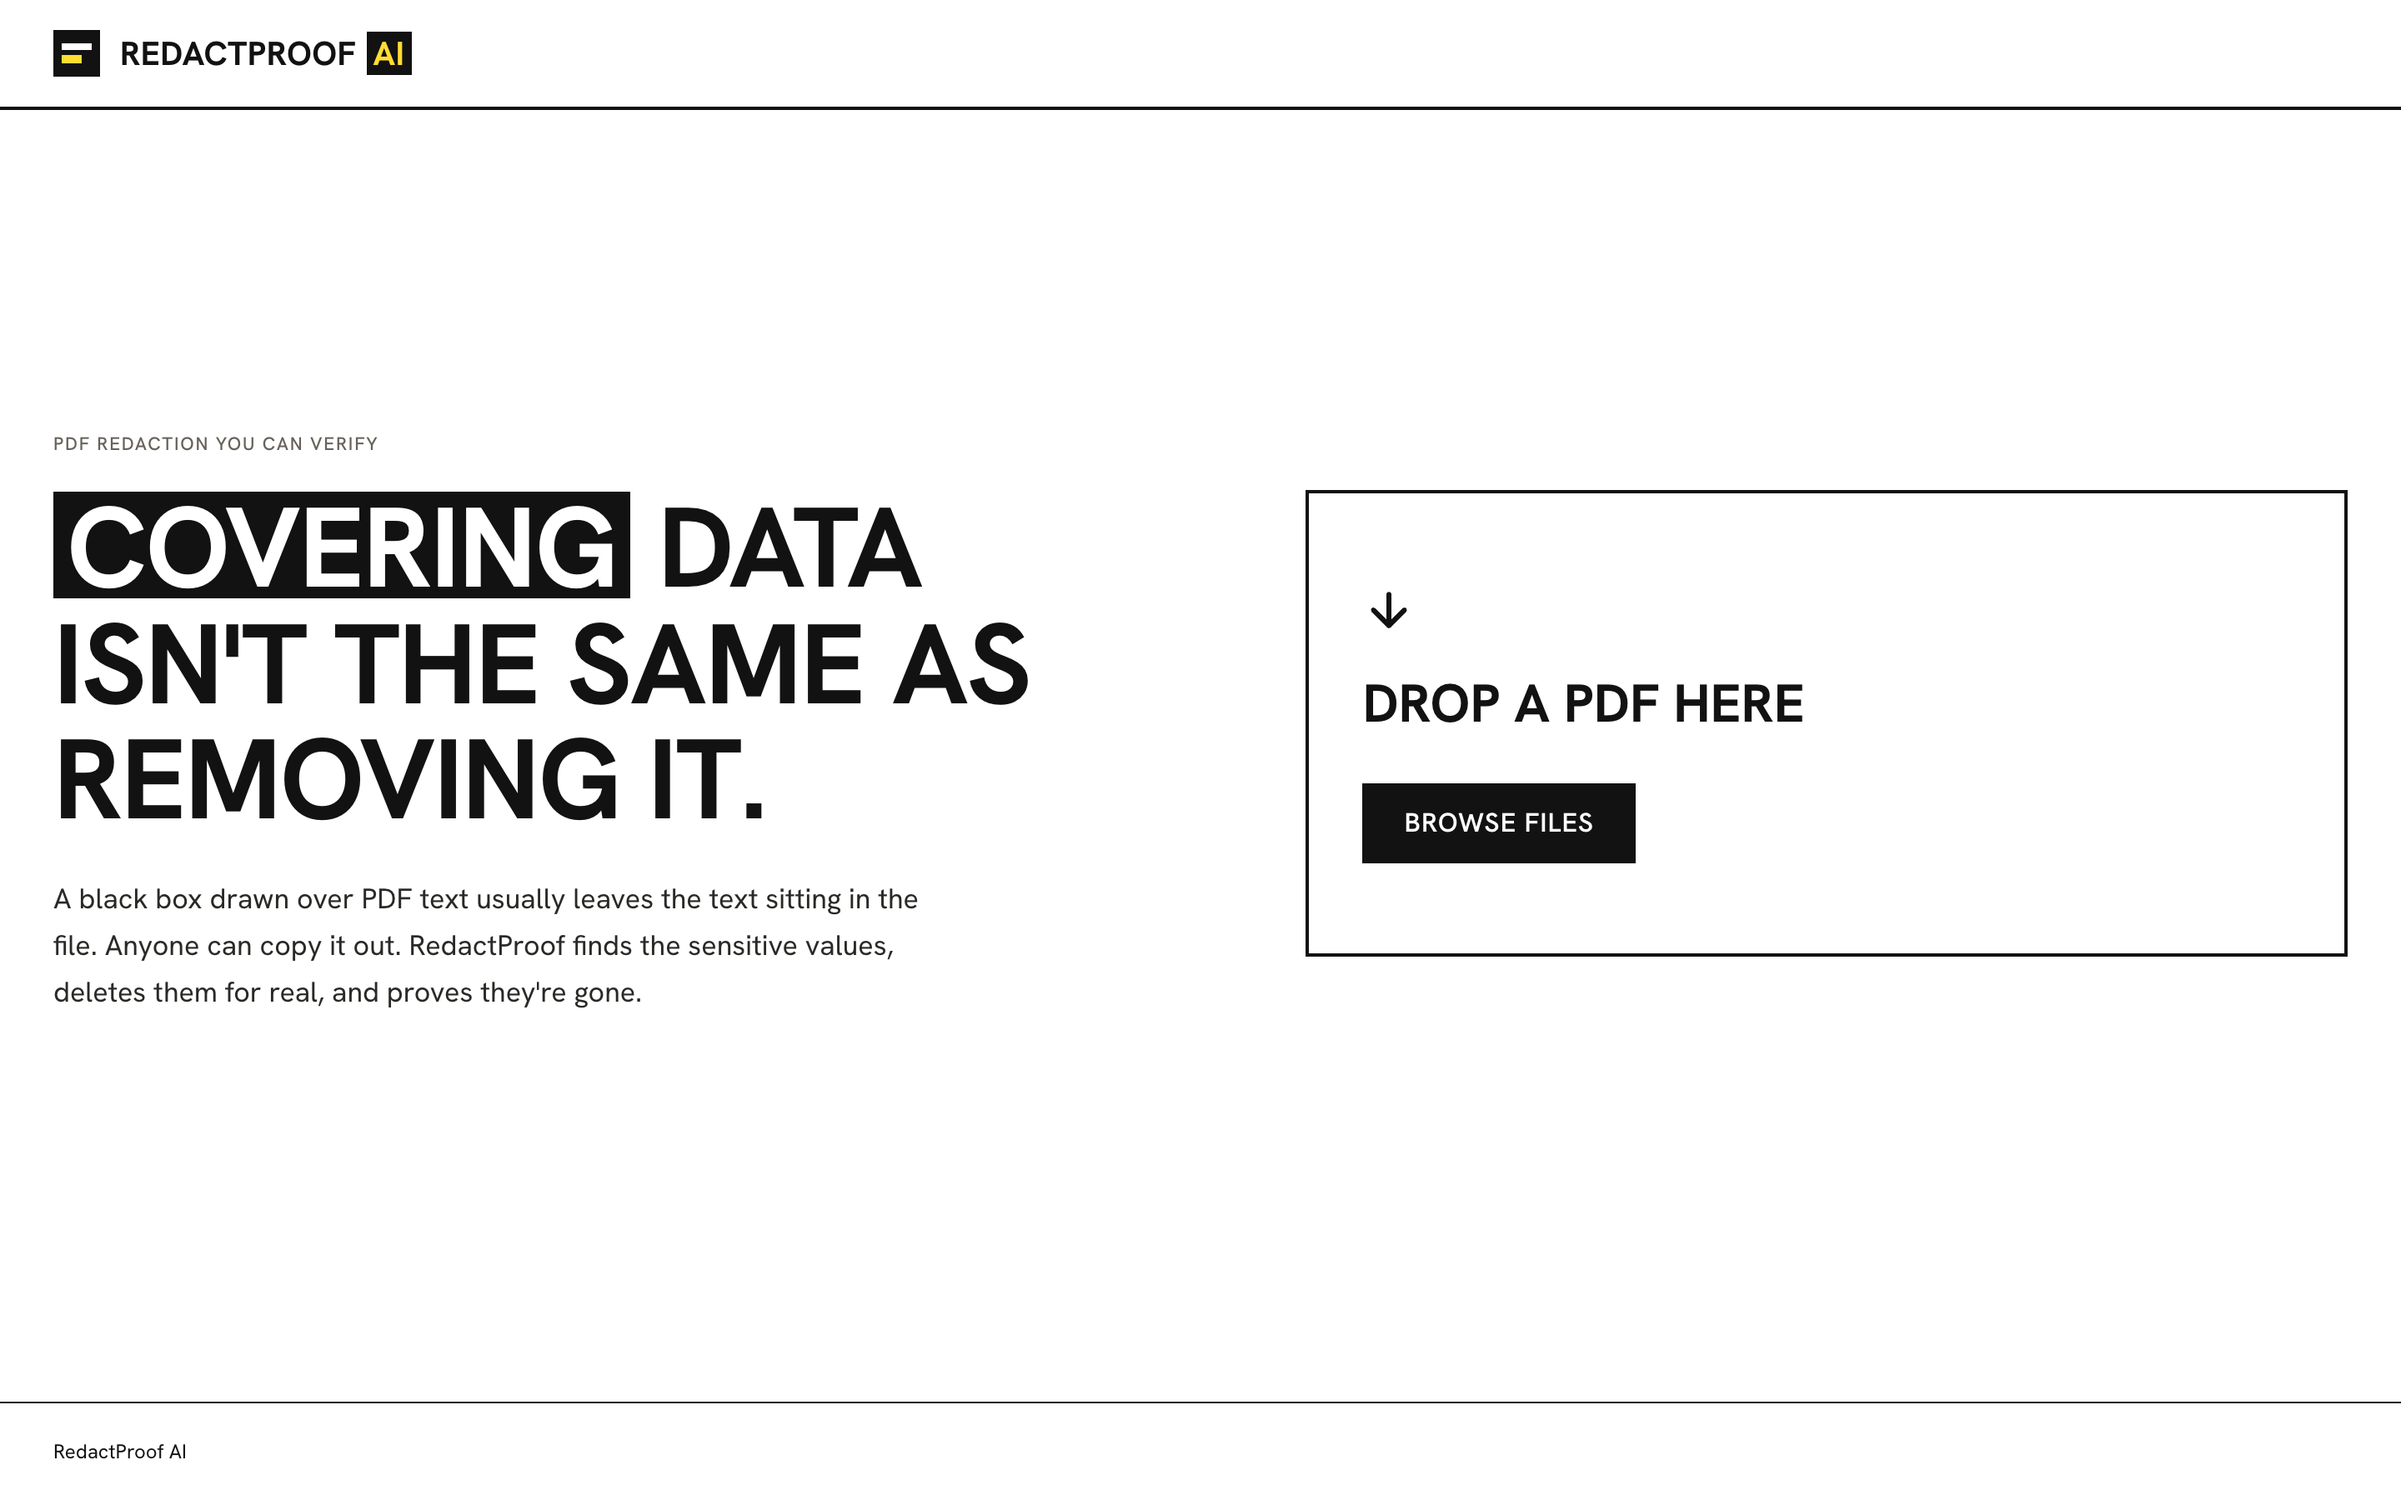
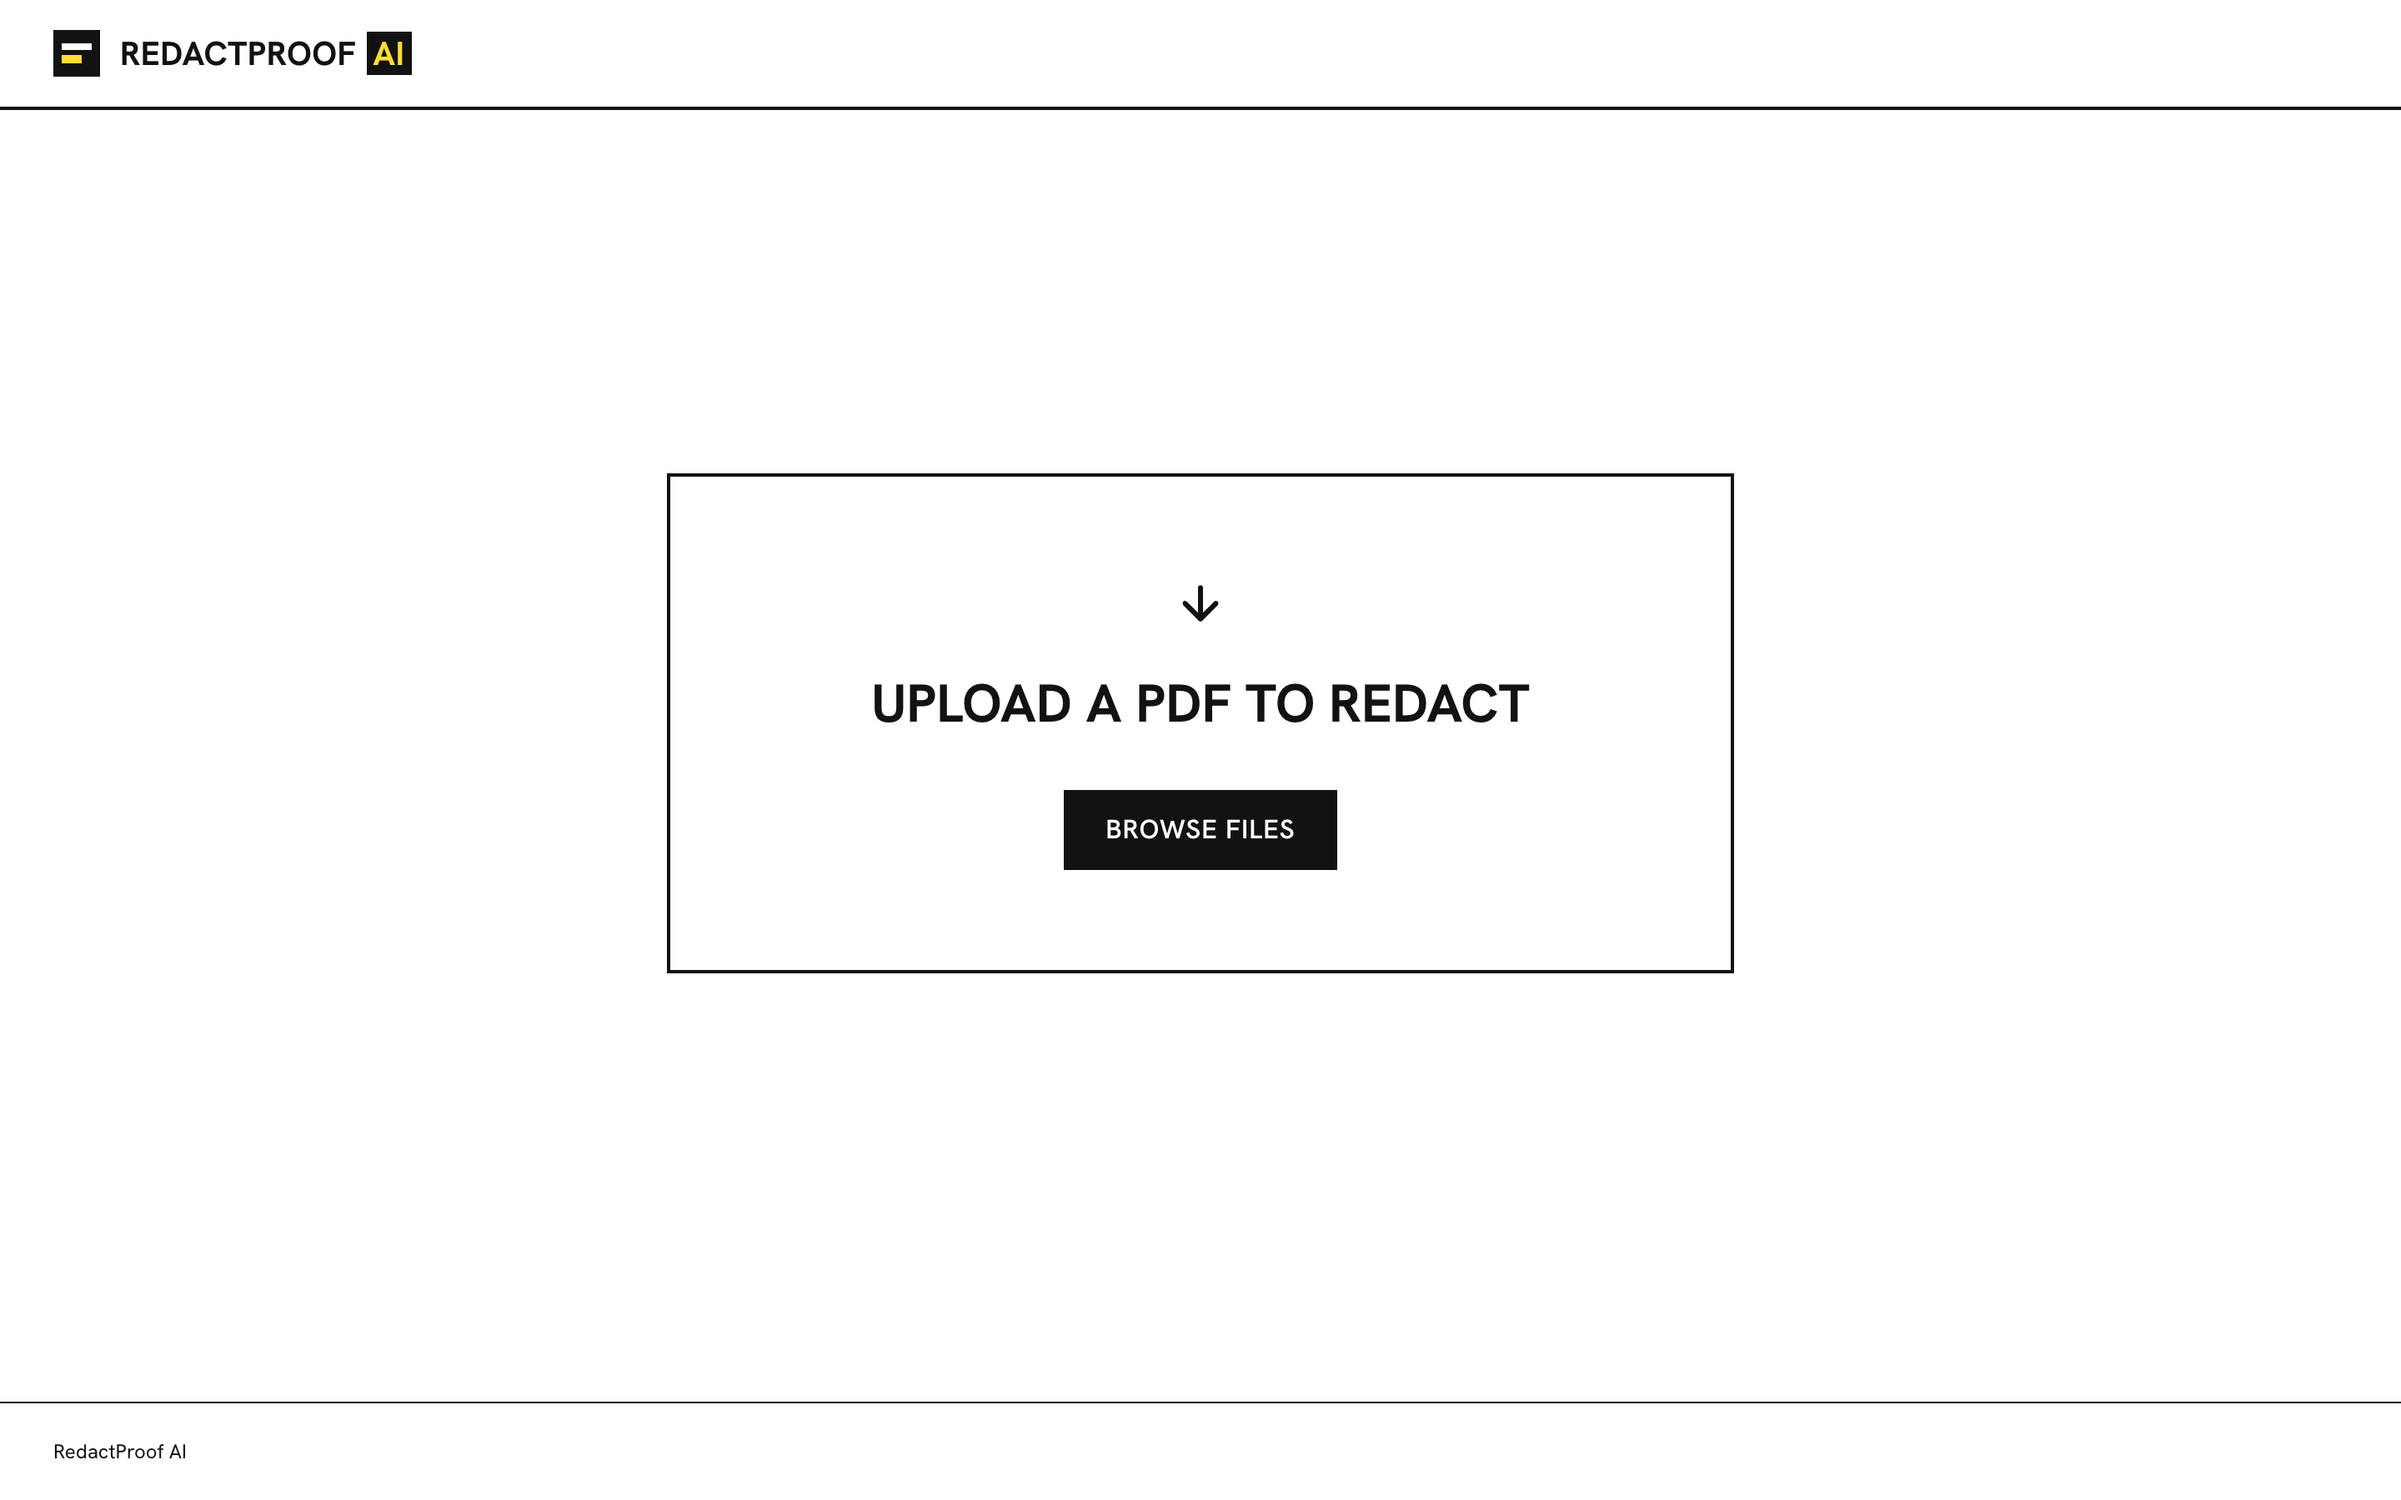
Simplify the homepage to a single centered upload box
Remove the headline, intro text and label on the left. Center the upload
box (and its analyzing state) and retitle it "Upload a PDF to redact",
which is now the page heading.

diff --git a/frontend/src/components/UploadZone.tsx b/frontend/src/components/UploadZone.tsx
@@ -43,18 +43,7 @@ export function UploadZone({ analyzing, error, onFile, onCancel }: UploadZonePro
   }
 
   return (
-    <div className="grid items-center gap-10 lg:my-auto lg:grid-cols-[minmax(0,1.1fr)_minmax(0,1fr)] lg:gap-16 lg:pb-10">
-      <div>
-        <p className="tag text-muted">PDF redaction you can verify</p>
-        <h1 className="mt-5 font-display text-[44px] leading-[1.02] font-bold tracking-[-0.015em] text-ink uppercase sm:text-[68px]">
-          <span className="inline-block bg-ink px-2 pt-[0.05em] leading-[0.9] text-paper">Covering</span> data isn't the same as removing it.
-        </h1>
-        <p className="mt-6 max-w-[540px] text-[17px] leading-relaxed text-body">
-          A black box drawn over PDF text usually leaves the text sitting in the file. Anyone can copy it out. RedactProof
-          finds the sensitive values, deletes them for real, and proves they're gone.
-        </p>
-      </div>
-
+    <div className="mx-auto my-auto w-full max-w-[640px] pb-10">
       <div>
         <div
           onDragOver={(e) => {
@@ -64,7 +53,7 @@ export function UploadZone({ analyzing, error, onFile, onCancel }: UploadZonePro
           onDragLeave={() => setDragging(false)}
           onDrop={onDrop}
           className={cx(
-            'flex min-h-[280px] flex-col justify-center border-2 border-ink px-8 py-8 transition-colors',
+            'flex min-h-[300px] flex-col items-center justify-center border-2 border-ink px-8 py-10 text-center transition-colors',
             dragging ? 'bg-marker' : 'bg-surface',
           )}
         >
@@ -73,7 +62,7 @@ export function UploadZone({ analyzing, error, onFile, onCancel }: UploadZonePro
           ) : (
             <>
               <ArrowDown className="size-8 text-ink" strokeWidth={2.25} aria-hidden />
-              <p className="mt-6 font-display text-[32px] leading-none font-bold text-ink uppercase">Drop a PDF here</p>
+              <h1 className="mt-6 font-display text-[32px] leading-tight font-bold text-ink uppercase">Upload a PDF to redact</h1>
               <div className="mt-8">
                 <Button variant="primary" size="lg" onClick={() => inputRef.current?.click()}>
                   Browse files
@@ -116,9 +105,9 @@ function AnalyzingState({ file, onCancel }: { file: File; onCancel: () => void }
 
   return (
     <div role="status" aria-live="polite">
-      <Loader2 className="size-8 animate-spin text-ink" strokeWidth={2.25} aria-hidden />
+      <Loader2 className="mx-auto size-8 animate-spin text-ink" strokeWidth={2.25} aria-hidden />
       <p className="mt-6 font-display text-[28px] leading-tight font-bold break-all text-ink uppercase">Analyzing {file.name}</p>
-      <p className="mt-3 max-w-md text-[14px] leading-relaxed text-body">
+      <p className="mx-auto mt-3 max-w-md text-[14px] leading-relaxed text-body">
         Scanning the document for sensitive values. This can take up to a minute.
       </p>
       <p className="mt-3 font-mono text-[12px] text-muted tabular-nums">
